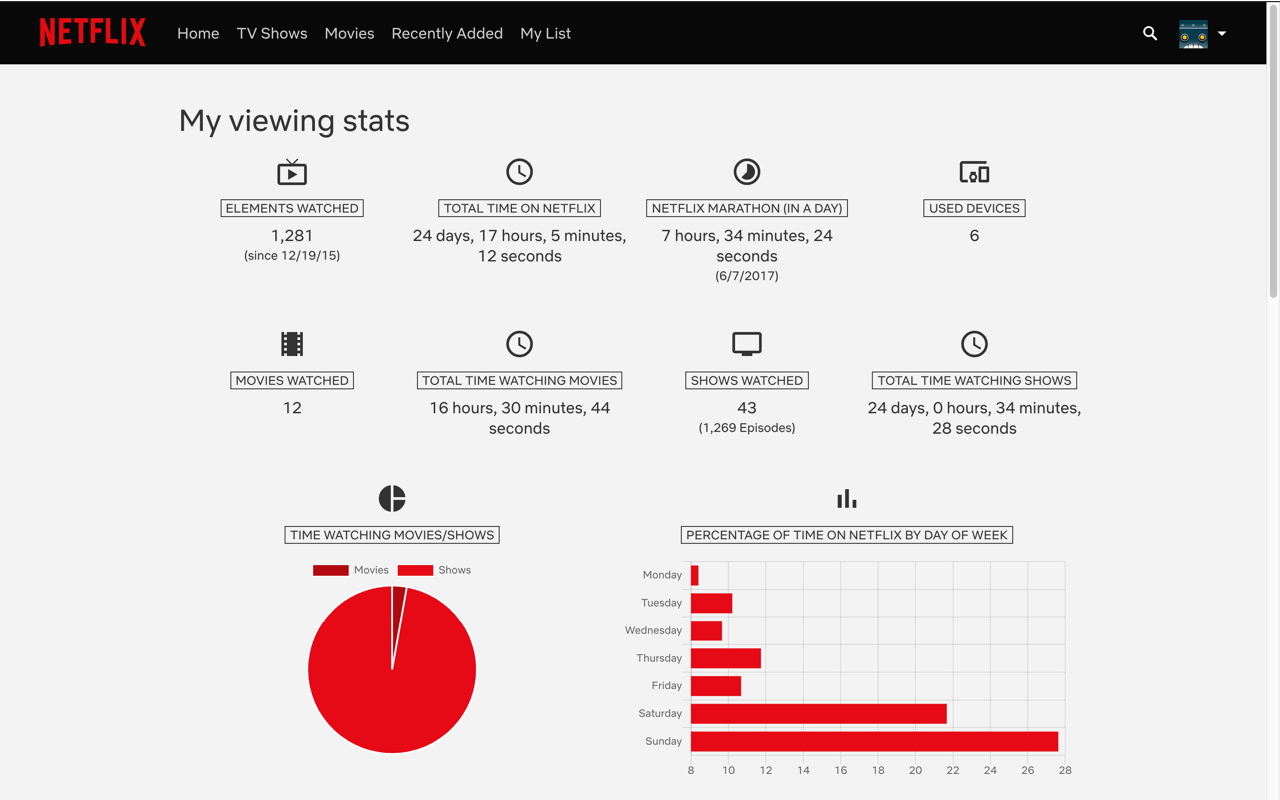
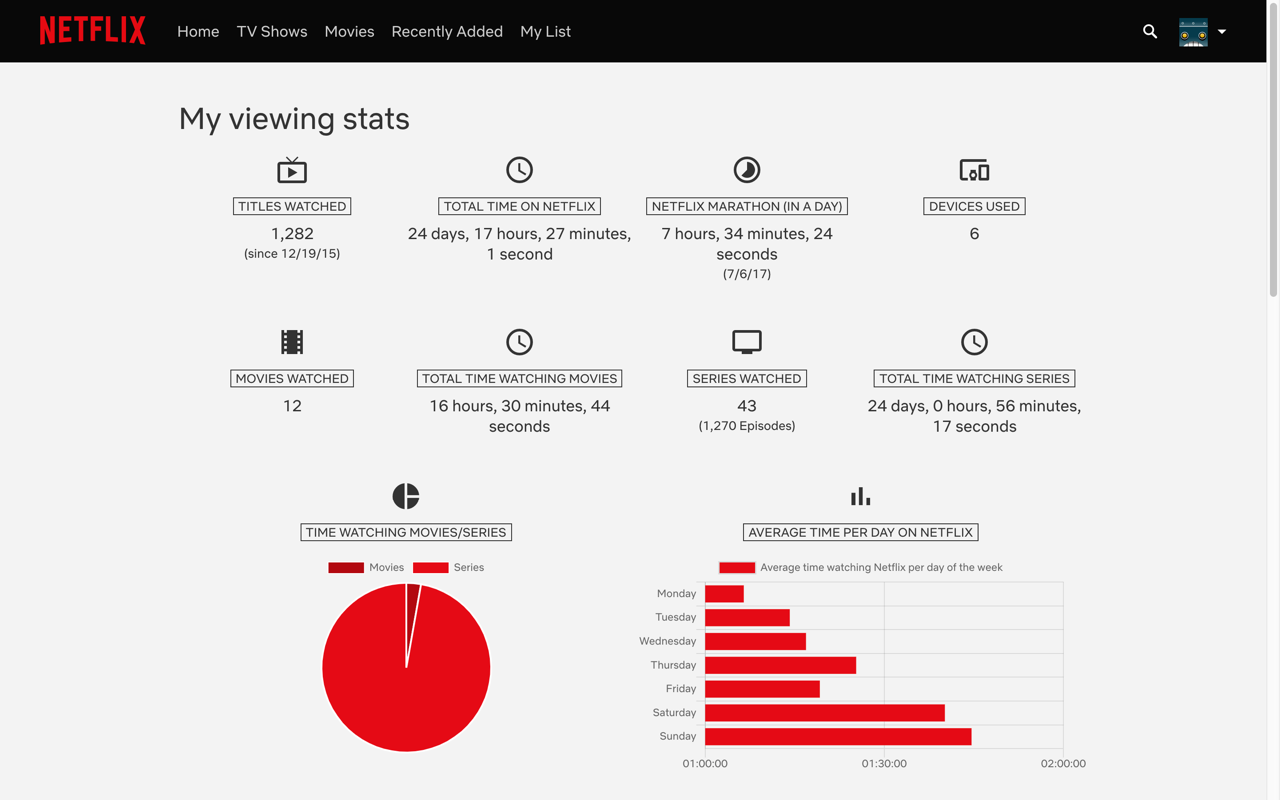
Improved README, added LICENSE and updated screenshots

diff --git a/README.md b/README.md
@@ -1,29 +1,39 @@
 # Netflix Usage Stats
 
-This Chrome extension helps you to know about your usage stats when you are watching Netflix. It includes a set of statistics
+This Chrome extension helps you to know more about your Netflix viewing statistics.
+This extension allows you to access to a viewing stats page fully integrated in Netflix site which loads viewing activity from Netflix Shakti API and calculate a set of statistics about how you use your Netflix account.
 
-- Total watched elements (movie, serie, documentary, trailer)
-- Total time spent on Netflix
-- Netlix marathon (maximum time watching Netflix in a day)
+![Screenshot](./screenshot-full-en.png)
+
+Included statistics are:
+
+- Total watched titles (movies, series, documentaries) and first use date
+- Total time watching Netflix
+- Netlix Marathon (maximum time watching Netflix in a single day)
 - Number of devices you have used to watch Netflix
 - Number of movies watched
-- Time spent watching movies
-- Number of movies watched
-- Time spent watching series
-- Time watching movies vs time watching series
-- Percentage of time watching Netflix by day of the week
+- Time watching movies
+- Number of series and episodes watched
+- Time watching series
+- Comparison between time watching movies vs time watching series
+- Average time watching Netflix per day of the week
 
-![Screenshot](./screenshot-full-es.png)
+It also includes a table with the whole user's viewing activity with ability to sort and filter data.
 
 ## Getting Started
 
-1. Open the Extension Management page by navigating to [chrome://extensions](chrome://extensions).
+1. Clone the repository `git clone https://github.com/hmartos/netflix-usage-stats.git`.
+2. Open Google Chrome Extension Management page navigating to [chrome://extensions](chrome://extensions).
    The Extension Management page can also be opened by clicking on the Chrome menu, hovering over `More Tools` then selecting `Extensions`.
-2. Enable `Developer Mode` by clicking the toggle switch next to Developer mode.
-3. Click the `Load Unpacked` button and select the extension directory.
+3. Enable `Developer Mode` by clicking the toggle switch next to Developer mode in the top right corner.
+4. Click the `Load Unpacked` button and select the cloned repository folder.
 
 ## Build
 
 You can generate a zip file with the extension ready to be uploaded to [Google Chrome Developer Dashboard](https://chrome.google.com/webstore/devconsole)
 
 Just execute `npm run build` and a zip called `netflix-usage-stats.zip` will be generated.
+
+## License
+
+Copyright 2019 Héctor Martos. Code released under the [MIT License](./LICENSE).
